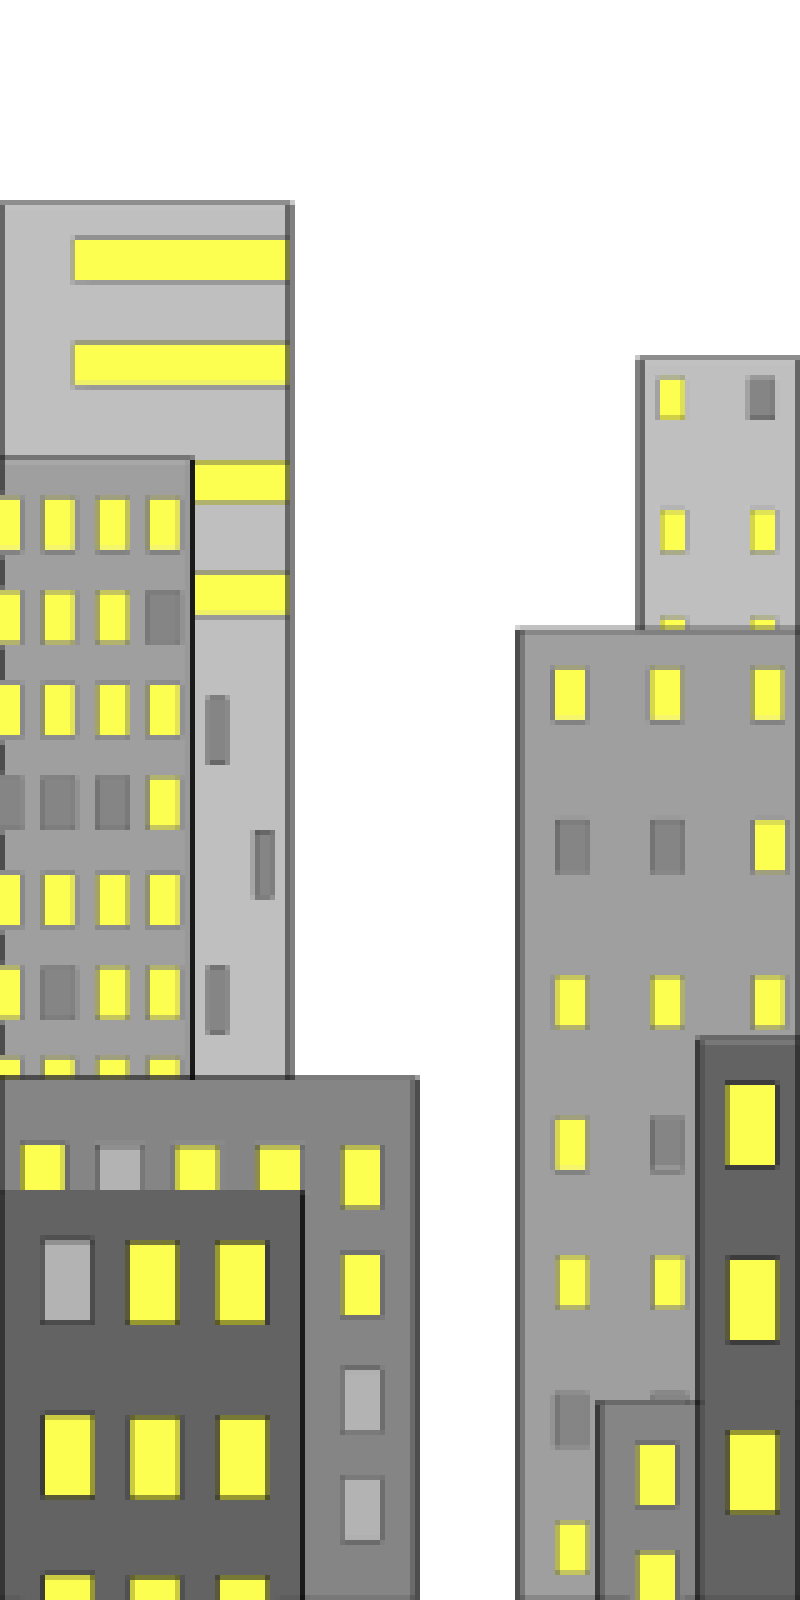
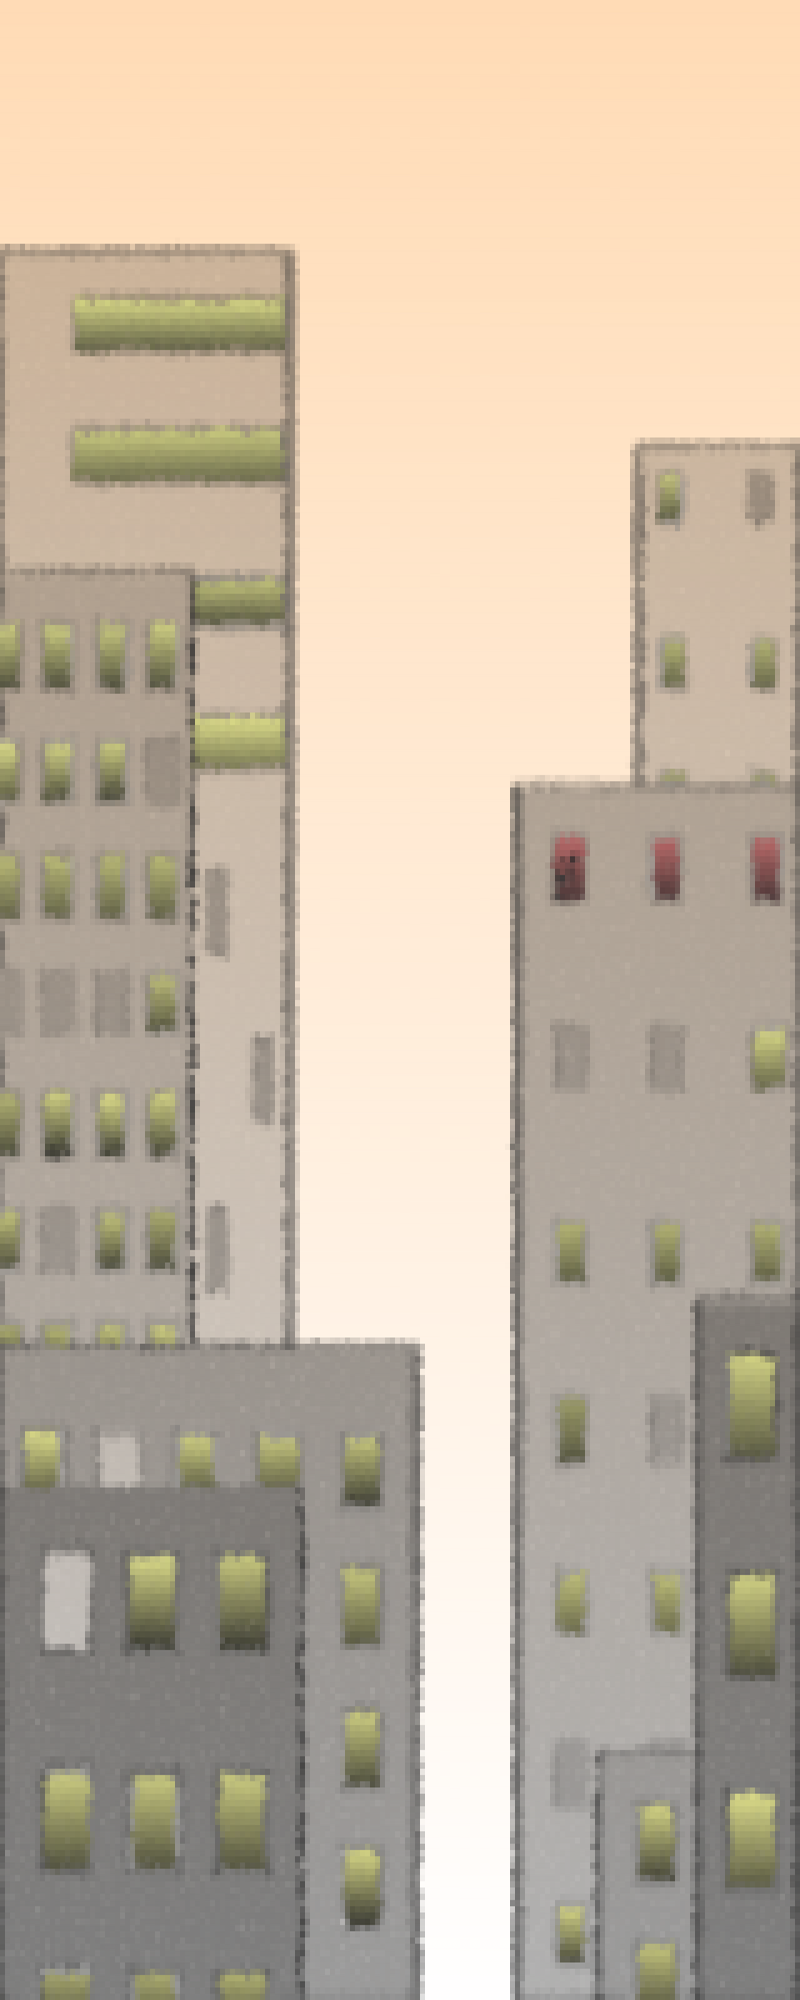
new levels & font

diff --git a/src/screens/gameScreen.py b/src/screens/gameScreen.py
@@ -2,7 +2,7 @@
 
 PyGame game test
 
-Game launcher
+Game Screen
 
 """
 
@@ -12,25 +12,21 @@ import math
 import pygame
 from pygame.locals import *
 from pygame.color import *
-from pygame import K_ESCAPE
-sys.path.append('../lib/pyganim/')
-import pyganim
 
 sys.path.append('gameObjects/')
 from player import Player
 from camera import Camera
 from level import Level
 from screen_ import Screen_
-from fragment import Fragment
-from utils import save,load,exist,to_pygame
+from utils import save,load,exist,to_pygame,getFont
 
 
 class GameScreen(Screen_):
     
-    def __init__(self,levelInd):
+    def __init__(self, levelInd):
         super(GameScreen, self).__init__()
         self.fadeScreen = pygame.image.load("../img/backgrounds/blackscreen.png").convert()
-        self.font = pygame.font.SysFont("Handy00", 20)
+        self.font = getFont("VolterGoldfish", 20)
         self.nextColorIcon = pygame.image.load("../img/hud/nextColor23.png").convert_alpha()
         self.progressIcon = pygame.image.load("../img/hud/progress.png").convert_alpha()
         self.timebar = pygame.image.load("../img/hud/timebar.png").convert_alpha()
@@ -65,7 +61,14 @@ class GameScreen(Screen_):
         self.fire = Rect((0,3200),(800,5))
         self.playerDown = False
 
-
+        
+        self.answerPos = [(100,300),(100,400),(100,500)]
+        self.answerChoice = 0
+        self.activecolor = THECOLORS['white']
+        self.inactivecolor = THECOLORS['grey21']
+        
+        if exist('powers'):
+            self.player.timePower, self.player.mines, self.player.shields = load('powers')
 
         
 
@@ -97,6 +100,7 @@ class GameScreen(Screen_):
 
         # Display bottom bar
         backgroundScreen.fill(THECOLORS['black'],Rect((0,600),(800,40)))
+
         backgroundScreen.blit(self.nextColorIcon, to_pygame((35,35), backgroundScreen), (0, 30, 50, 30))
         backgroundScreen.blit(self.font.render(str(self.player.timePower), 1, (170,174,48)), (50,607))
         backgroundScreen.blit(self.progressIcon, to_pygame((35,5), backgroundScreen), (0, 10, self.player.timePowerCount*10, 10))
@@ -120,7 +124,6 @@ class GameScreen(Screen_):
             for kf in self.killFragments:
                 kf.render(backgroundScreen,self.camera)
 
-        # backgroundScreen.blit(self.laserImg, self.camera.apply(self.fire))
         if self.starting:
             self.fadeScreen.set_alpha(self.alpha)
             backgroundScreen.blit(self.fadeScreen,(0,0))
@@ -142,24 +145,28 @@ class GameScreen(Screen_):
             if self.alpha > 255:
                 self.stopped = True
             self.alpha += 10
-            self.player.render(backgroundScreen, self.camera)
-            if self.confirmFinished:
-                backgroundScreen.blit(self.font.render("What's your name ?",1,THECOLORS['white']),(500,200))
-                backgroundScreen.blit(self.font.render("This is none of your business",1,THECOLORS['white']),(100,300))
-                backgroundScreen.blit(self.font.render("Who are YOU ?",1,THECOLORS['white']),(100,400))
-                backgroundScreen.blit(self.font.render("I don't remember",1,THECOLORS['white']),(100,500))
+            backgroundScreen.blit(self.font.render(self.level.question,1,THECOLORS['red']),(400,100))
+            for i in range(len(self.level.answers)):
+                if self.answerChoice != i:
+                    backgroundScreen.blit(self.font.render(self.level.answers[i],1,self.inactivecolor),self.answerPos[i])
+                else:
+                    backgroundScreen.blit(self.font.render(self.level.answers[i],1,self.activecolor),self.answerPos[i])
 
-
-    def handle_events(self,events):
+    def handle_events(self, events):
         for event in events:
             if event.type == QUIT:
                 exit()
-            if event.type == KEYDOWN:
+            elif event.type == KEYDOWN:
                 if event.key == K_ESCAPE:
                     self.manager.go_to('levelSelectScreen')
-        if self.player.finished:
-            keys = pygame.key.get_pressed()
-            if keys[pygame.K_DOWN]:
+                if self.player.finished:
+                    if event.key == K_DOWN:
+                        self.answerChoice = (self.answerChoice + 1) % 3
+                    elif event.key == K_UP:
+                        self.answerChoice = (self.answerChoice - 1) % 3
+                    elif event.key == K_RETURN:
+                        save([('powers',[self.player.timePower,self.player.mines,self.player.shields])])
+                        self.manager.go_to_game(self.level.index + 1 )
 
 
 
@@ -174,21 +181,16 @@ class GameScreen(Screen_):
             if e.hit:
                 self.level.enemies.remove(e)
 
-        # player update
-        if not self.player.killed:
-            self.player.update(self.level.blocks,self.level.enemies,self.frame_number)
-        else:
-            if not self.stopped:
-                # for _ in range(random.randint(20,40)):
-                #     self.killFragments.append(Fragment(self.player.rect.center,THECOLORS['white']))
-                # self.stopDelay = 50
-                self.stopped = True
-                self.ending = True
+        # Update player
+        if not self.player.finished:
+            if not self.player.killed:
+                self.player.update(self.level.blocks,self.level.enemies,self.frame_number)
             else:
-                # self.stopDelay -= 1
-                # if self.stopDelay == 0:
-                    # save([('coins',[self.player.mines,self.player.shields,self.player.timePower])])
-                self.manager.go_to_game(self.level.index)
+                if not self.stopped:
+                    self.stopped = True
+                    self.ending = True
+                else:
+                    self.manager.go_to_game(self.level.index)
         
         
         self.camera.update((self.player.rect.x, self.player.rect.y, 0, 0))

diff --git a/src/utils.py b/src/utils.py
@@ -10,10 +10,25 @@ sys.path.append('../lib/pyganim/')
 import pyganim
 
 
-plusOneAnimBlue = pyganim.loadAnim('../img/anims/plusOne/blue',0.05)
-plusOneAnimYellow = pyganim.loadAnim('../img/anims/plusOne/yellow',0.05)
-plusOneAnimRed = pyganim.loadAnim('../img/anims/plusOne/red',0.05)
+plusOneAnimBlue = pyganim.loadAnim('../img/anims/plusOne/blue/',0.05)
+plusOneAnimYellow = pyganim.loadAnim('../img/anims/plusOne/yellow/',0.05)
+plusOneAnimRed = pyganim.loadAnim('../img/anims/plusOne/red/',0.05)
 
+questions = ["What's your name ?",
+            "Are you alone ?",
+            "Do you need anything ?",
+            "Do you know where you are ?",
+            "How do you feel ?",
+            "Would you like to talk to me now?",
+            "Is this the end ?"]
+answers = [["This is none of your business.", "Who are YOU ?", "I don't remember..."],
+            ["No, there was someone at the end of the previous level !", "Yes, fortunately nobody is with me.", "I should go back to check..."],
+            ["I need to slow time...", "I need more protection.", "Give me a weapon, I need to defend myself !"],
+            ["This is Heaven...", "Clearly I'm in Hell.", "Of course, I'm in the middle of a game !"],
+            ["Not too well, I feel like I've died a thousand times.", "To be honest this isn't much fun...", "I'm on fire, nothing can stop me !"],
+            ["I'd rather not.", "I never wanted to talk to you in the first place !", "I wish, but this is not implemented in the game..."],
+            ["It'd better be, I'm wasting my time here.", "Isn't there another level ?", "Gnnnnraaaaaahh !!"]
+            ]
 
 def save(objectList):
     shelfFile = shelve.open('savegame')
@@ -35,6 +50,12 @@ def load(name):
 
 def getFont(fontName, fontSize):
     return pygame.font.Font('../fonts/'+fontName+'.ttf', fontSize)
+
+def getQuestion(ind):
+    return questions[ind]
+
+def getAnswers(ind):
+    return answers[ind]
 
 # copied from pymunk
 def to_pygame(p, surface):

diff --git a/src/screens/mainMenuScreen.py b/src/screens/mainMenuScreen.py
@@ -8,6 +8,7 @@ import pygame
 from pygame.locals import *
 from pygame.color import THECOLORS
 from screen_ import Screen_
+from utils import save
 
 #import pgext
 
@@ -17,15 +18,15 @@ import utils
 class MainMenuScreen(Screen_):
     def __init__(self):
         super(MainMenuScreen, self).__init__()
-        self.font = utils.getFont('Handy00', 44)
-        self.infofont = utils.getFont('Handy00', 18)
+        self.font = utils.getFont('VolterGoldfish', 44)
+        self.infofont = utils.getFont('VolterGoldfish', 18)
         self.background = pygame.image.load("../img/backgrounds/mainMenu.png").convert()
         self.menuEntries = ["Start Game","Options","Quit"] ## add continue -> levelMenuScreen
         self.menuPositions = [(200,100),(200,300),(200,500)]
         self.menuInfo = ["Start or continue your adventure","Change game and user settings","Exit the game. Goodbye!"]
         self.menuChoice = 0
         self.activeColor = THECOLORS["black"]
-        self.inactiveColor = THECOLORS["grey29"]
+        self.inactiveColor = THECOLORS["grey64"]
 
 
     def render(self,backgroundScreen):
@@ -45,8 +46,9 @@ class MainMenuScreen(Screen_):
                     self.manager.go_to('startScreen')
                 elif event.key == K_RETURN:
                     if self.menuChoice == 0:
-                        self.manager.go_to('levelSelectScreen')
-                        # self.manager.go_to_game(0)
+                        # self.manager.go_to('levelSelectScreen')
+                        save([('powers',[0,0,0])])
+                        self.manager.go_to_game(0)
                     elif self.menuChoice == 1:
                         self.manager.go_to('optionsScreen')
                     elif self.menuChoice == 2:

diff --git a/src/level.py b/src/level.py
@@ -7,6 +7,7 @@ import pygame
 import random
 from block import Block
 from enemy import Enemy
+import utils
 
 class Level(object):
 
@@ -14,7 +15,7 @@ class Level(object):
 		self.index = index
 		self.blocks = []
 		self.enemies = []
-		self.background = pygame.image.load("../img/backgrounds/levelBackgrounds/lvl"+str(index)+".jpg").convert()
+		self.background = pygame.image.load("../img/backgrounds/levelBackgrounds/lvl.jpg").convert()
 		self.background_alpha = pygame.image.load("../img/backgrounds/levelBackgrounds/lvl"+str(index)+"_alpha.png").convert_alpha()
 		self.loadLevel()
 
@@ -34,3 +35,5 @@ class Level(object):
 						self.enemies.append(Enemy([(currentX+18,currentY+40)],random.randint(2,5)))
 					j += 1
 				i += 1
+		self.question = utils.getQuestion(self.index)
+		self.answers = utils.getAnswers(self.index)

diff --git a/src/screens/optionsScreen.py b/src/screens/optionsScreen.py
@@ -18,9 +18,9 @@ class OptionsScreen(Screen_):
     def __init__(self):
         super(OptionsScreen, self).__init__()
     
-        self.font = utils.getFont('Handy00', 44)
-        self.infofont = utils.getFont('Handy00', 18)
-        self.keyfont = utils.getFont('Handy00', 24)
+        self.font = utils.getFont('VolterGoldfish', 44)
+        self.infofont = utils.getFont('VolterGoldfish', 18)
+        self.keyfont = utils.getFont('VolterGoldfish', 24)
         self.background = pygame.image.load("../img/backgrounds/options.png").convert()
         self.soundBar = pygame.image.load("../img/backgrounds/soundBar.png").convert_alpha()
         self.musicBar = pygame.image.load("../img/backgrounds/soundBar.png").convert_alpha()

diff --git a/src/gameObjects/player.py b/src/gameObjects/player.py
@@ -107,8 +107,6 @@ class Player(GameObject_):
             self.rect.y = 3200
         # if not self.collide_ls:
         #     self.onBlock = None
-        if self.rect.y < 300:
-            self.finished = True
     
     def adjust_pos(self,blocks,offset,off_ind):
         offset[off_ind] += (1 if offset[off_ind]<0 else -1)
@@ -209,6 +207,9 @@ class Player(GameObject_):
                     self.shields -= 1
                     self.shieldAnim.play()
                     self.shieldDelay = 100
+
+        if self.rect.y < 100 and keys[pygame.K_UP]:
+            self.finished = True
 
 
 

diff --git a/src/screens/startScreen.py b/src/screens/startScreen.py
@@ -14,8 +14,8 @@ class StartScreen(Screen_):
 
     def __init__(self):
         super(StartScreen, self).__init__()
-        self.enterFont = utils.getFont('Handy00', 40)
-        self.infoFont = utils.getFont('Handy00', 18)
+        self.enterFont = utils.getFont('VolterGoldfish', 40)
+        self.infoFont = utils.getFont('VolterGoldfish', 18)
         self.background = pygame.image.load("../img/backgrounds/title_pix.png").convert()
         self.running = True
         self.enterColors = (235,246,242)

diff --git a/src/screens/levelSelectScreen.py b/src/screens/levelSelectScreen.py
@@ -15,7 +15,7 @@ class LevelSelectScreen(Screen_):
 
     def __init__(self):
         super(LevelSelectScreen, self).__init__()
-        self.font = utils.getFont('Handy00', 44)
+        self.font = utils.getFont('VolterGoldfish', 44)
         self.background = pygame.image.load("../img/backgrounds/levelSelect.png").convert()
         self.levelTitles = ["Tutorial","Green Machine", "Strange Orange", "Purple Trouble"]
         self.levelBackgrounds = []

diff --git a/src/main.py b/src/main.py
@@ -18,7 +18,7 @@ def main():
     pygame.init()
     pygame.mixer.init()
     pygame.mixer.music.load("../sounds/piano.wav")
-    # pygame.mixer.music.play(-1)
+    pygame.mixer.music.play(-1)
     display = pygame.display.set_mode((width,height))
     clock = pygame.time.Clock()
     manager = ScreenManager()

diff --git a/src/camera.py b/src/camera.py
@@ -34,7 +34,7 @@ class Camera(object):
         l = max(0, l)
         # stop scrolling at the bottom
         t = max(-(camera.height-self.screen_height), t)
-        # t = self.maxH
+        t = self.maxH
         # stop scrolling at the top
         t = min(0, t)
 
